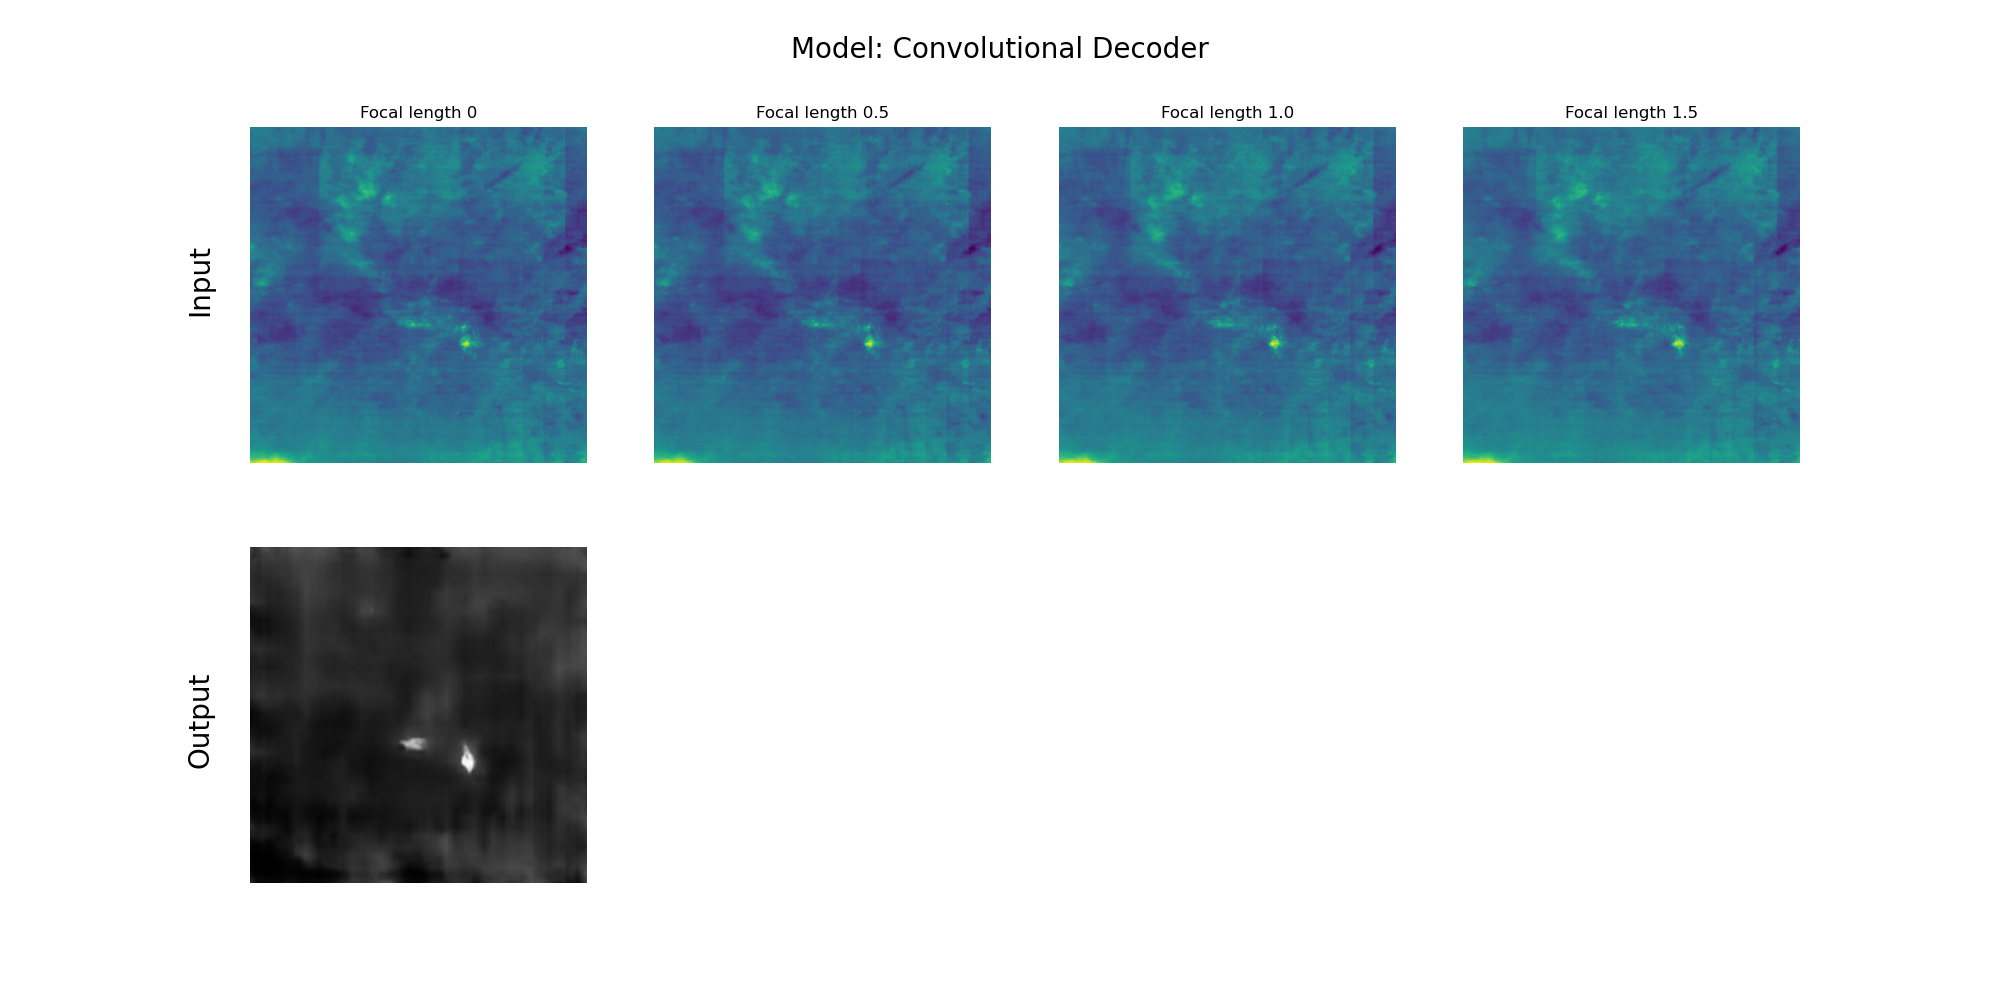
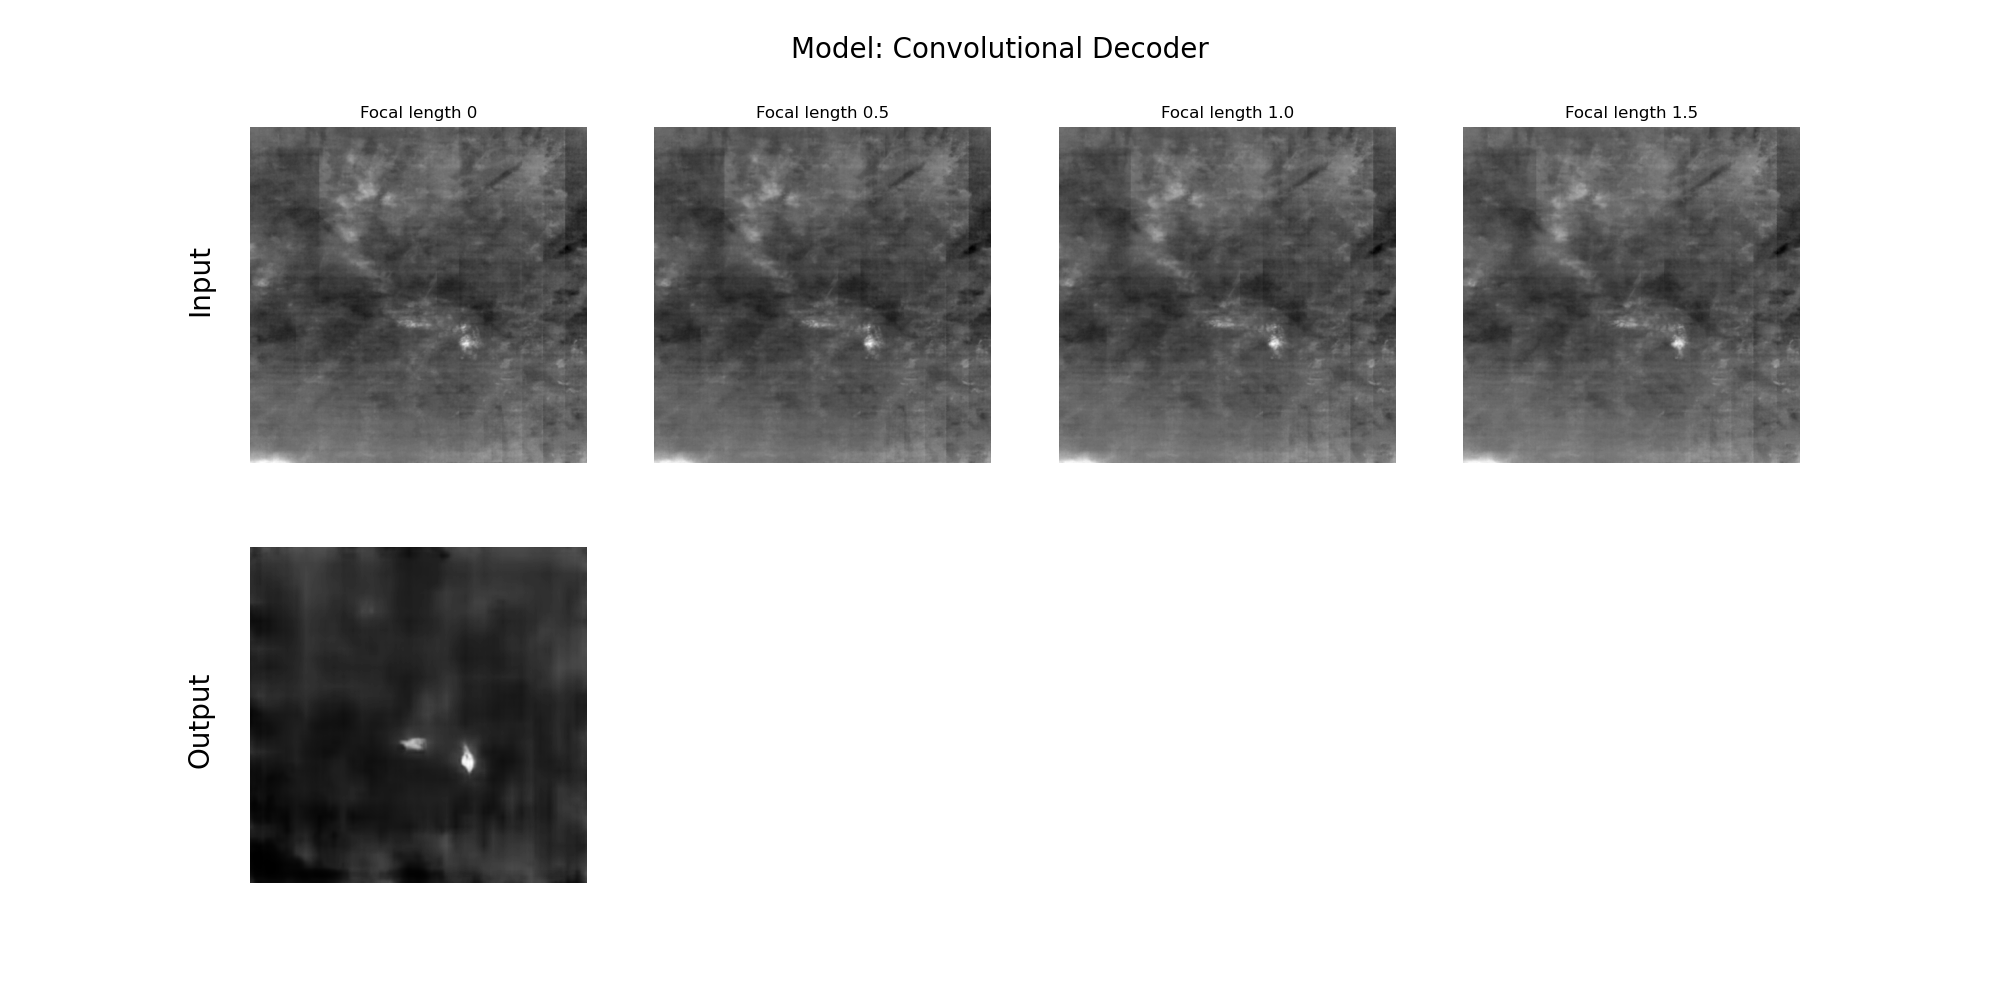
change cmap of input images to gray

Changed region(s): [[0.527, 0.124, 0.899, 0.465], [0.124, 0.124, 0.496, 0.465]]

diff --git a/test.py b/test.py
@@ -1,11 +1,3 @@
-# example usage:
-#  python test.py --model conv_decoder --ckpt /path/to/file.ckpt --output output.png --images image1.png image2.png image3.png image4.png
-#  python test.py --model unet --ckpt /path/to/file.ckpt --images path/to/folder/with/images
-# options for --model: conv_decoder, unet, dpt
-# --ckpt: path to checkpoint
-# --images: must be 4 aos integrated images with focal planes in the order: 0m, -0,5m, -1m, -1,5m or folder with the 4 images
-# --output: path for output image
-
 import argparse
 import os
 import glob
@@ -28,15 +20,28 @@ DINO_SIZE_MAP = {
 
 
 def parse_args_and_validate():
-    parser = argparse.ArgumentParser()
-    parser.add_argument("--model", type=str, required=True)
-    parser.add_argument("--ckpt", type=str, required=True)
-    parser.add_argument("--output", type=str, default="output.png")
-    parser.add_argument("--images", nargs="+", default=["real_focal_stack"])  # either 4 images or folder with 4 images
+    valid_models = ["conv_decoder", "unet", "dpt"]
+    parser = argparse.ArgumentParser(description='''This script is used for inference with different models.
+        Focal planes of integral images should be at 0m, -0.5m, -1m, -1.5m in that order and 512x512 pixels.
+        Example usage:
+        > python test.py --model conv_decoder --ckpt /path/to/file/conv_decoder.ckpt --output output.png --images image1.png image2.png image3.png image4.png
+        > python test.py --model unet --ckpt /path/to/file/unet.ckpt --images path/to/folder/with/images
+        > python test.py --model dpt --ckpt /path/to/file/dpt.ckpt''', formatter_class=argparse.RawTextHelpFormatter)
+
+    parser.add_argument("--model", type=str, required=True,
+                        choices=valid_models,
+                        help="Model to use for inference (conv_decoder, unet, dpt)")
+    parser.add_argument("--ckpt", type=str, required=True,
+                        help="Path to checkpoint corresponding to the model")
+    parser.add_argument("--output", type=str, default="output.png",
+                        help="Path to save the output image, default: output.png")
+    parser.add_argument("--images", nargs="+", default=["real_focal_stack"],
+                        help="Either a list of 4 integral images or a directory containing those, default: "
+                             "./real_focal_stack")
     args = parser.parse_args()
 
     # validate the arguments
-    valid_models = ["conv_decoder", "unet", "dpt"]
+
     if args.model not in valid_models:
         raise ValueError(f"Unknown model: {args.model}, valid models are: {valid_models}")
     if not os.path.isfile(args.ckpt):
@@ -71,7 +76,7 @@ def plot_output(args, output):
 
     for idx, image_path in enumerate(args.images):
         ax = fig.add_subplot(2, 4, idx + 1)
-        ax.imshow(Image.open(image_path).resize((512, 512)))
+        ax.imshow(Image.open(image_path).resize((512, 512)), cmap="gray")
         ax.axis("off")
         ax.set_title(f'Focal length {focal_lengths[idx]}')
 
@@ -195,6 +200,4 @@ def main():
 
 if __name__ == "__main__":
     main()
-    # python test.py --model conv_decoder --ckpt cktpts/epoch=63-step=7296_DINO.ckpt --output real_integrals_results/conv_decoder_result.png
-    # python test.py --model dpt --ckpt cktpts/epoch=147-step=105376_DPT.ckpt --output real_integrals_results/dpt_result.png
-    # python test.py --model unet --ckpt cktpts/epoch=36-step=52688_UNET.ckpt --output real_integrals_results/unet_result.png
+
